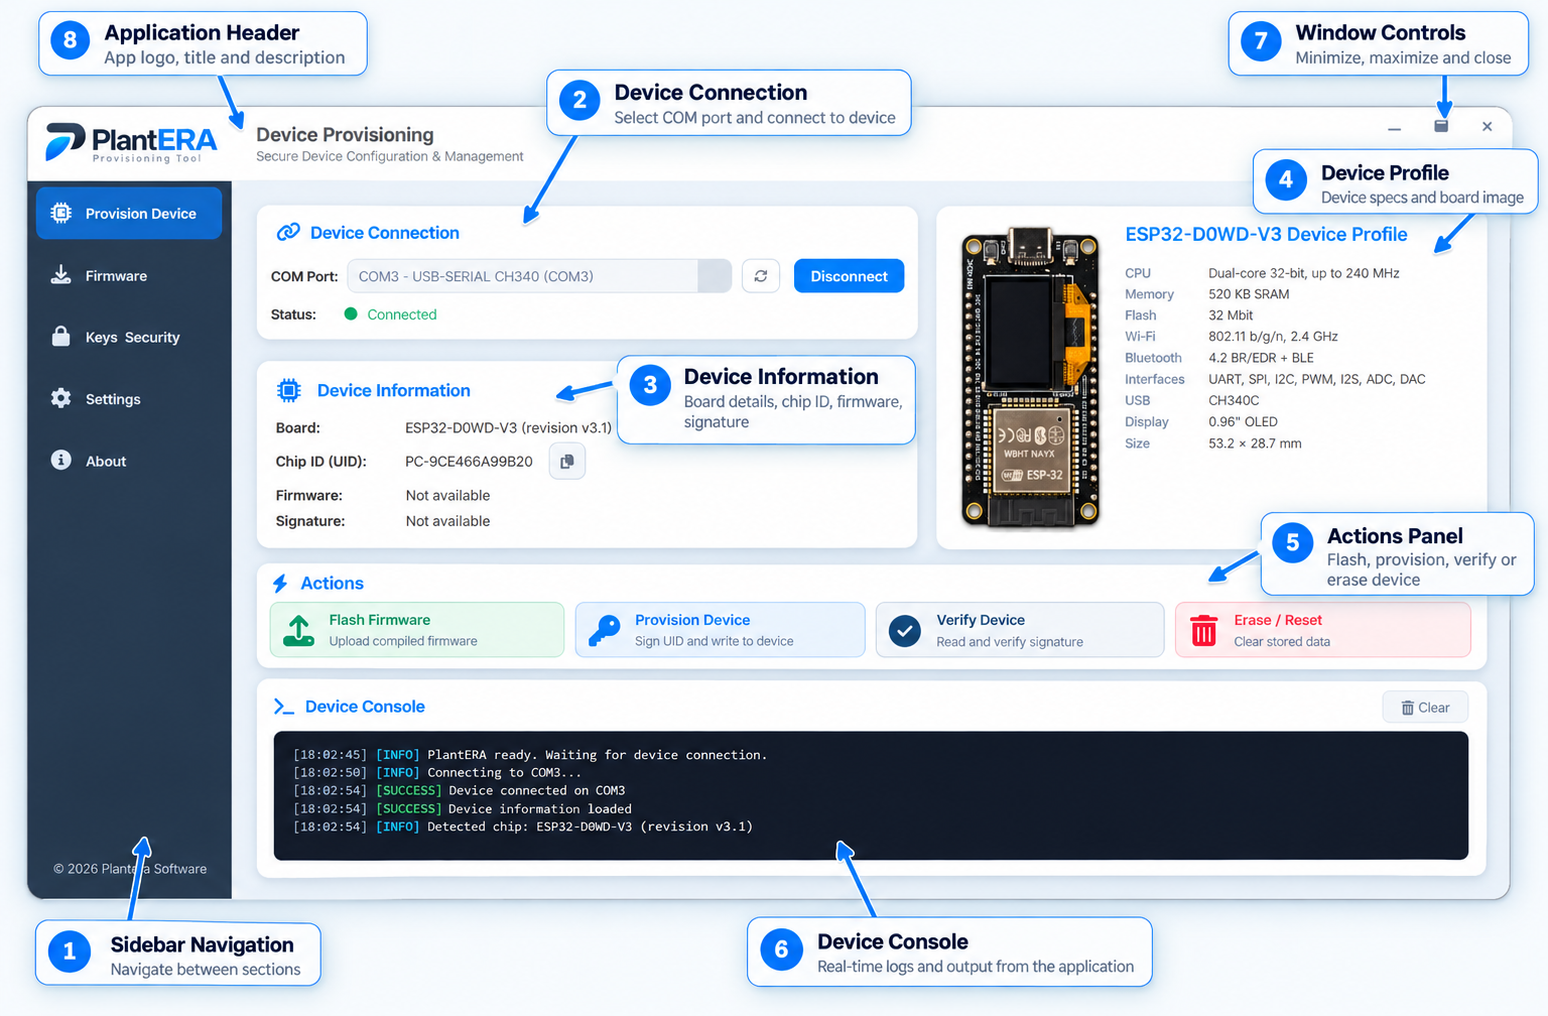
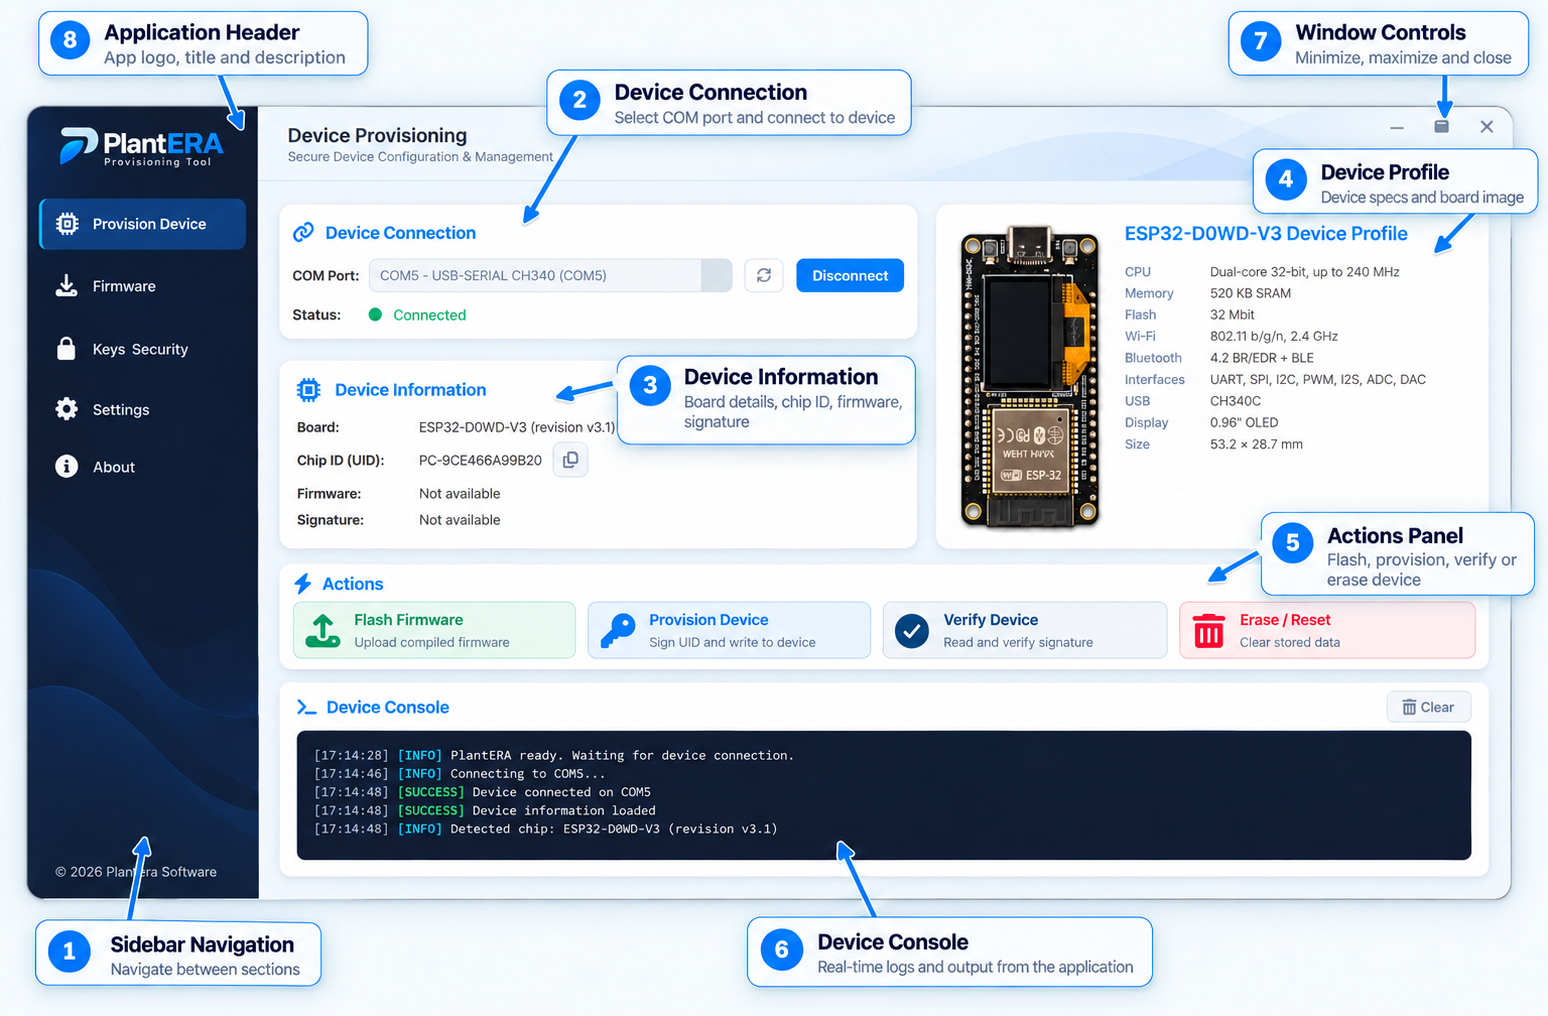
UPDATE README.md

diff --git a/README.md b/README.md
@@ -121,6 +121,44 @@ The project uses a modular architecture designed to support future firmware prov
 
 ---
 
+## PlantERA Hardware
+
+PlantERA combines an ESP32-based soil moisture monitoring device with a dedicated desktop provisioning and device management application.
+
+<div align="center">
+
+<img src="assets/img/device_pc_1.png" alt="PlantERA Soil Moisture Monitoring Device" width="780">
+
+*PlantERA hardware prototype — ESP32 controller, OLED display and capacitive soil moisture sensor.*
+
+</div>
+
+### Hardware Components
+
+| Component | Description |
+|---|---|
+| **Microcontroller** | ESP32-based development board |
+| **Soil Moisture Sensor** | Capacitive Soil Moisture Sensor V2.0.0 |
+| **Display** | Integrated OLED moisture display |
+| **Enclosure** | Custom compact housing |
+| **Programming** | USB interface |
+
+### Hardware & Software Integration
+
+**PlantERA Monitoring Device**
+
+An ESP32-based hardware prototype designed to measure soil moisture and display readings directly on its integrated OLED screen.
+
+**PlantERA Provisioning Tool**
+
+A Windows desktop application built with Python and PySide6 for identifying connected ESP32 devices, retrieving hardware information and preparing devices for future secure provisioning.
+
+Together, these components form the foundation of the PlantERA hardware and software ecosystem.
+
+> **Development Status:** Firmware flashing, secure provisioning and signature verification are planned features currently under development.
+
+---
+
 ## Installation
 
 ### Requirements
